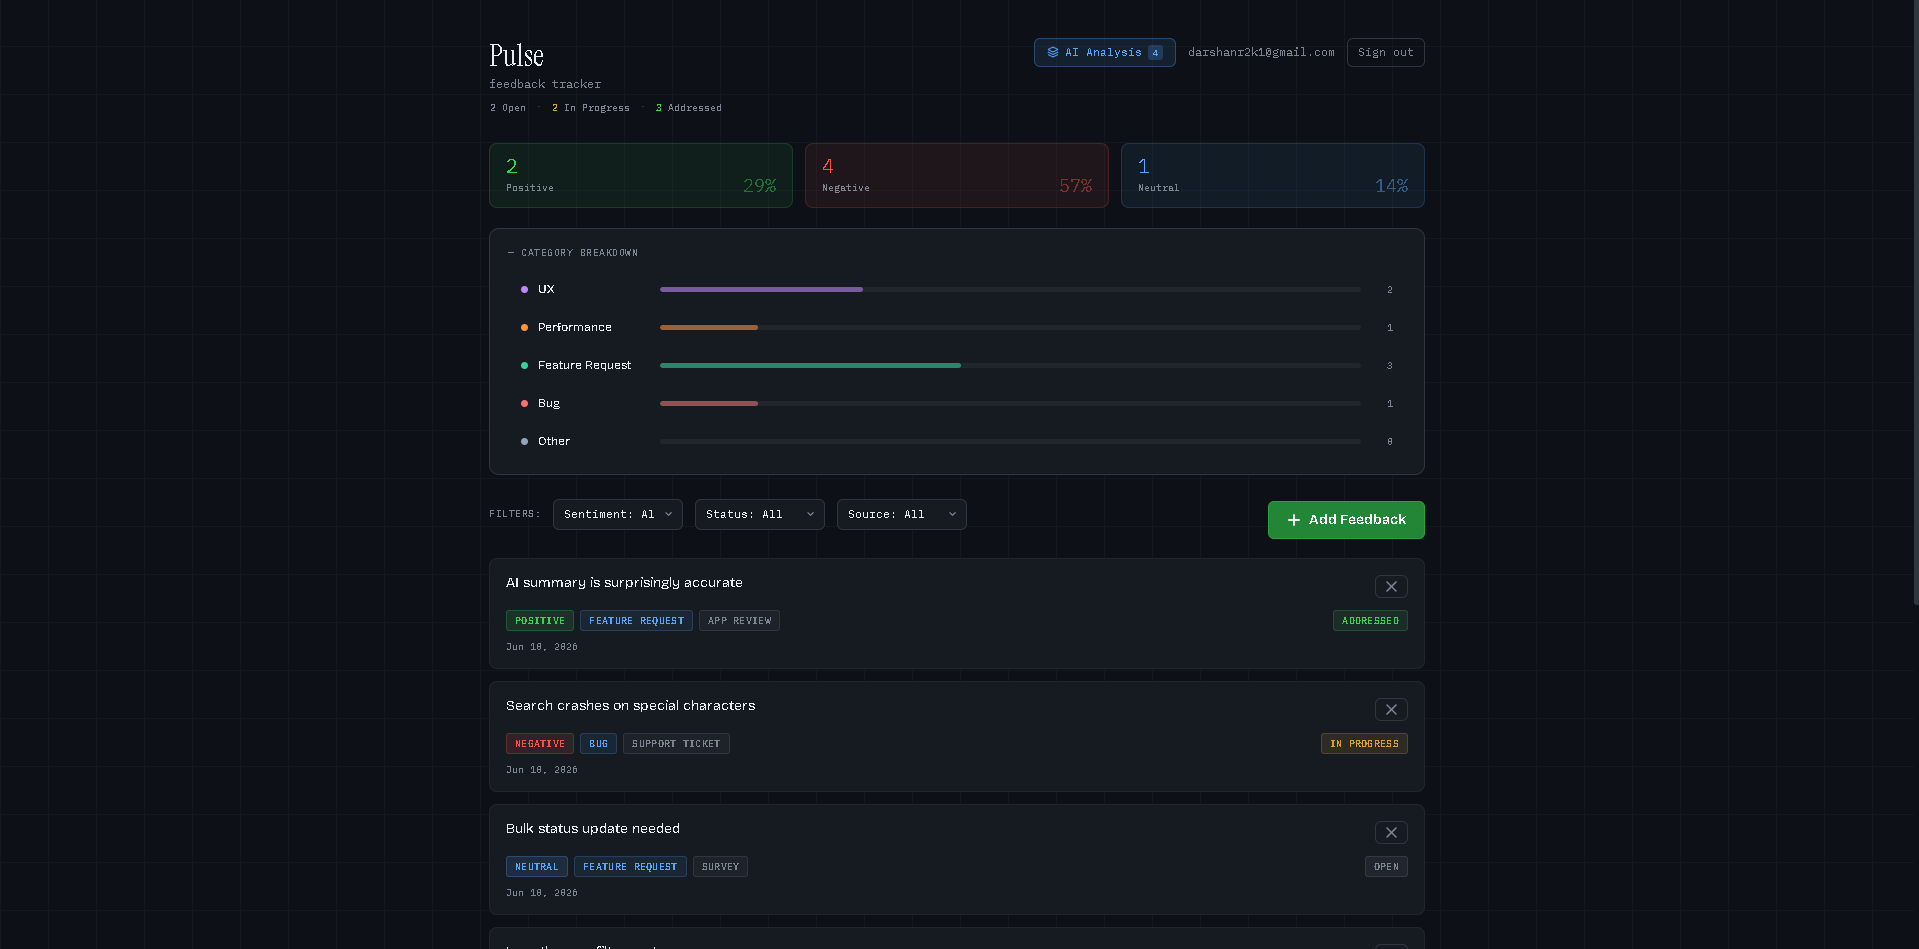
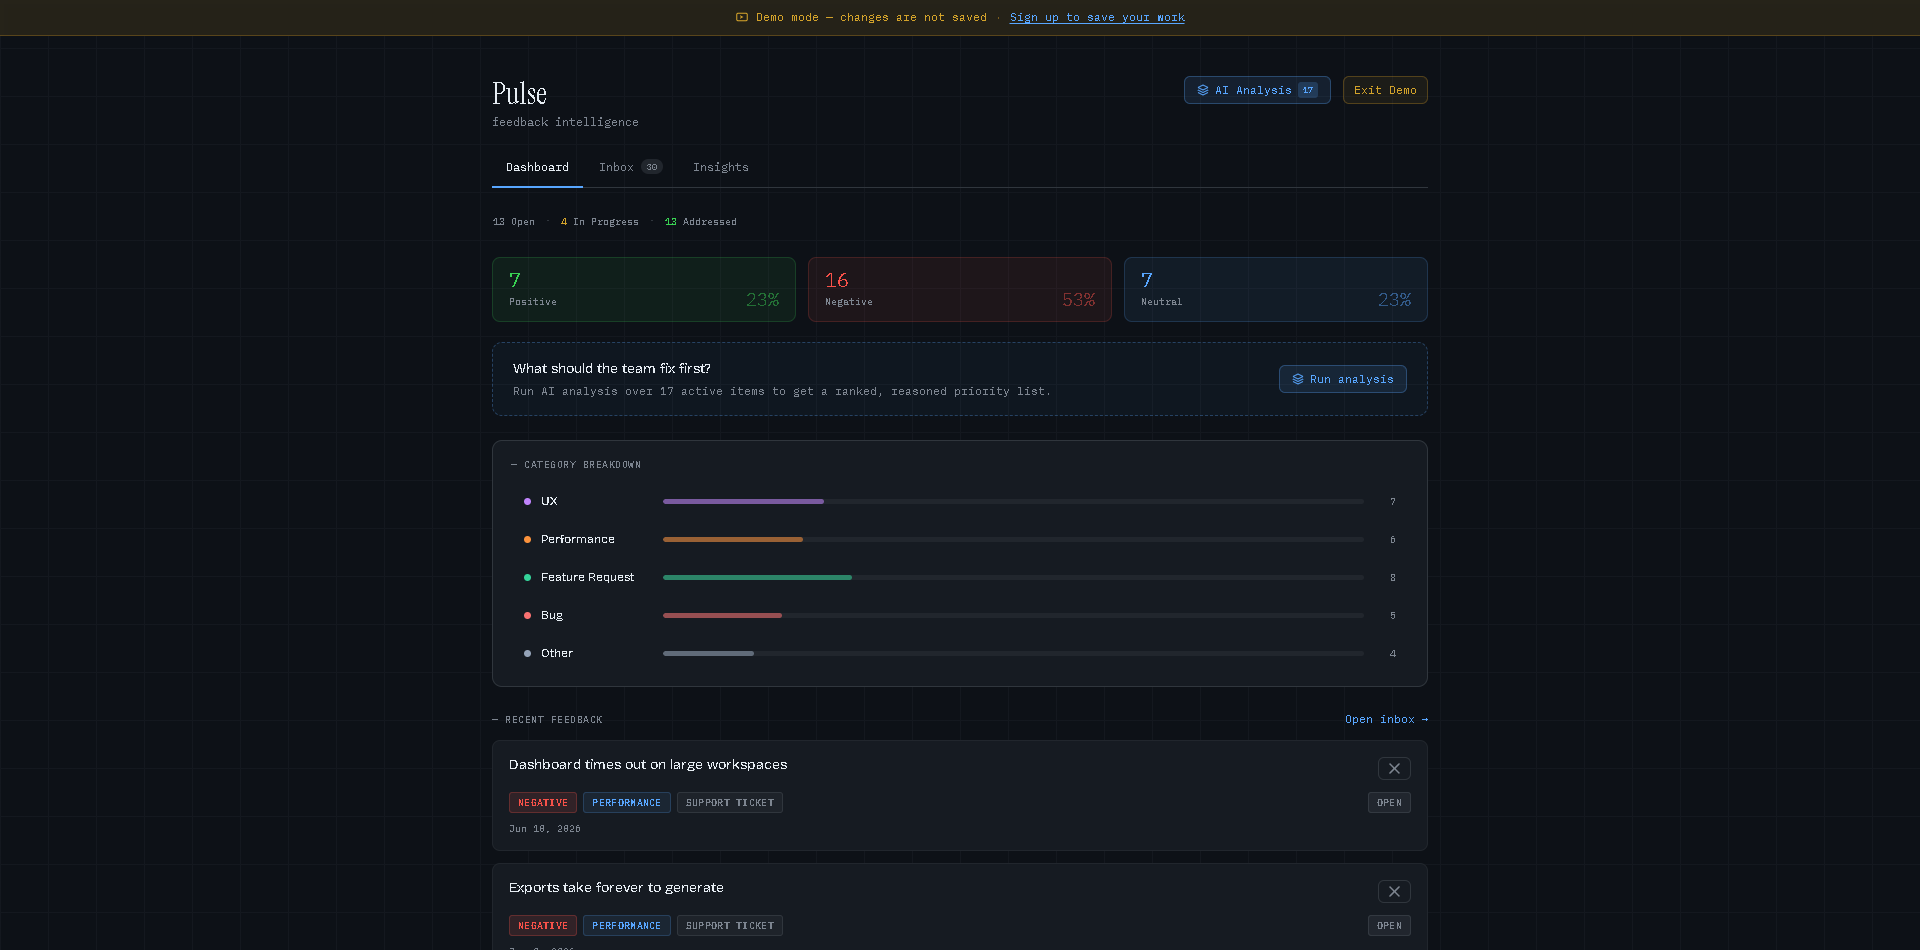
Refresh Pulse case study to match the shipped intelligence platform
Updated overview, architecture, and key decisions to reflect AI
classification at intake, evidence-linked persisted analysis, and
the Insights view. Regenerated all Pulse screenshots from the live
product and added an Insights capture to the gallery. Product links
now deep-link straight into demo mode (?demo=1) so visitors land
inside the product instead of on the auth screen. Flagship card on
the homepage now shows the ranked AI analysis.

diff --git a/pulse.html b/pulse.html
@@ -17,7 +17,7 @@
   <div class="wrap nav-inner">
     <a class="nav-back" href="index.html"><span aria-hidden="true">←</span> Back to portfolio</a>
     <nav class="nav-links" aria-label="Primary">
-      <a href="https://darsh-pm.github.io/Feedback-tracker/" target="_blank" rel="noopener" class="nav-keep">Open product ↗</a>
+      <a href="https://darsh-pm.github.io/Feedback-tracker/?demo=1" target="_blank" rel="noopener" class="nav-keep">Open product ↗</a>
       <a class="nav-keep" href="resume.pdf" target="_blank" rel="noopener">Resume</a>
       <a class="nav-cta" href="mailto:[email redacted]">Contact</a>
     </nav>
@@ -32,12 +32,13 @@
     <span class="eyebrow accent">Case study · 01</span>
     <h1>Pulse — feedback in, priorities out.</h1>
     <p class="lede">
-      A live AI-powered feedback analysis platform that collects user feedback,
-      classifies sentiment and category, and generates a ranked answer to the
-      only question that matters: what should the team fix first?
+      A live AI-powered feedback intelligence platform that collects user
+      feedback, classifies it with AI, tracks how sentiment and categories
+      trend week over week, and generates a ranked answer to the only
+      question that matters: what should the team fix first?
     </p>
     <div class="btn-row" style="margin-top:30px;">
-      <a class="btn btn-primary" href="https://darsh-pm.github.io/Feedback-tracker/" target="_blank" rel="noopener">Open live product <span class="ext">↗</span></a>
+      <a class="btn btn-primary" href="https://darsh-pm.github.io/Feedback-tracker/?demo=1" target="_blank" rel="noopener">Open live demo <span class="ext">↗</span></a>
     </div>
     <dl class="case-meta">
       <div><dt>Role</dt><dd>Product, design &amp; build</dd></div>
@@ -51,7 +52,7 @@
 <div class="wrap case-shot-full reveal in">
   <figure class="shot shot-glow">
     <div class="shot-bar" aria-hidden="true"><i></i><i></i><i></i><span class="shot-url">darsh-pm.github.io/Feedback-tracker</span></div>
-    <img src="assets/pulse-dashboard.png" alt="Pulse dashboard: sentiment totals (positive, negative, neutral), category breakdown bars, filters, and the feedback list" />
+    <img src="assets/pulse-dashboard.png" alt="Pulse dashboard: status summary, sentiment totals with percentages, AI analysis prompt, category breakdown bars, and recent feedback" />
   </figure>
 </div>
 
@@ -64,11 +65,13 @@
     </div>
     <div class="case-body">
       <p>
-        Pulse is a feedback tracker with an analysis layer on top. Feedback
-        arrives from app reviews, support tickets, and surveys; each item is
-        tagged with sentiment, category, and status. The dashboard shows the
-        live shape of the feedback — sentiment split, category breakdown,
-        open vs. addressed — and an AI analysis turns that shape into a
+        Pulse is a feedback tracker with an intelligence layer on top.
+        Feedback arrives from app reviews, support tickets, and surveys;
+        each item is classified with AI assistance — sentiment, category,
+        and a suggested title the PM confirms or overrides. The dashboard
+        shows the live shape of the feedback — sentiment split, category
+        breakdown, open vs. addressed — an Insights view tracks how that
+        shape moves week over week, and an AI analysis turns it into a
         ranked, reasoned priority list.
       </p>
       <p>
@@ -166,7 +169,12 @@
       <article>
         <span class="tag">Workflow</span>
         <h3>Status lives next to analysis</h3>
-        <p>Marking items addressed updates the picture the AI reasons over. The analysis stays a live operational view, not a one-off report that decays the moment it's generated.</p>
+        <p>Marking items addressed updates the picture the AI reasons over — and the analysis flags itself stale the moment the underlying data moves. A live operational view, not a one-off report.</p>
+      </article>
+      <article>
+        <span class="tag">Analytics</span>
+        <h3>Insights are sentences, not charts</h3>
+        <p>The Insights view pairs trend charts with a rule-based signal engine that writes the takeaway a PM would otherwise extract by hand: category momentum, sentiment shifts, ageing backlog, loudest negative channel.</p>
       </article>
       <article>
         <span class="tag">Sequencing</span>
@@ -189,19 +197,19 @@
         <div class="arch">
           <article>
             <h3>React client</h3>
-            <p>Dashboard, filters, feedback management, and the analysis panel. State kept deliberately thin; stored data owns truth.</p>
+            <p>Dashboard, triage inbox, insights view, and the analysis panel. State kept deliberately thin; stored data owns truth.</p>
           </article>
           <article>
             <h3>Groq API</h3>
-            <p>Low-latency inference for sentiment and category classification, plus the structured priority analysis over the full feedback set.</p>
+            <p>Low-latency inference for sentiment and category classification at intake, plus the structured priority analysis over the active feedback set.</p>
           </article>
           <article>
             <h3>PostgreSQL</h3>
-            <p>Feedback items, tags, statuses, and analysis results — so repeated views don't re-run inference.</p>
+            <p>Feedback items, tags, and statuses behind per-user row-level security. The latest analysis persists with a fingerprint of what it analyzed, so nothing silently re-runs inference.</p>
           </article>
           <article>
             <h3>Analytics layer</h3>
-            <p>Sentiment splits, category breakdowns, and status counts computed live to drive the dashboard.</p>
+            <p>Weekly sentiment and category trends, resolution metrics, and rule-based signals — computed live, no chart libraries, no warehouse.</p>
           </article>
         </div>
         <p class="arch-note">flow: ingest → classify → store → aggregate → analyze → rank</p>
@@ -242,6 +250,11 @@
       <h2>Screens</h2>
     </div>
     <div class="gallery">
+      <figure class="shot">
+        <div class="shot-bar" aria-hidden="true"><i></i><i></i><i></i><span class="shot-url">pulse — insights</span></div>
+        <img src="assets/pulse-insights.png" alt="Pulse Insights view: KPI row, auto-generated risk/win/watch signals, weekly sentiment trend chart, feedback volume, and category mix" />
+        <figcaption>Insights — resolution KPIs, auto-generated signals, and week-over-week sentiment, volume, and category trends.</figcaption>
+      </figure>
       <figure class="shot">
         <div class="shot-bar" aria-hidden="true"><i></i><i></i><i></i><span class="shot-url">pulse — feedback detail</span></div>
         <img src="assets/pulse-detail.png" alt="Feedback detail view with sentiment and category tags, description, and a status switcher" />

diff --git a/index.html b/index.html
@@ -270,11 +270,11 @@
 <div class="wrap shelf reveal">
   <figure class="shot shot-glow">
     <div class="shot-bar" aria-hidden="true"><i></i><i></i><i></i><span class="shot-url">darsh-pm.github.io/Feedback-tracker</span></div>
-    <img src="assets/pulse-dashboard.png" alt="Pulse dashboard showing sentiment totals, category breakdown, and a filterable feedback list" />
+    <img src="assets/pulse-dashboard.png" alt="Pulse dashboard showing status summary, sentiment totals, AI analysis prompt, category breakdown, and recent feedback" />
   </figure>
   <p class="shelf-caption">
-    <span>Pulse — AI feedback analysis. Live and open to try.</span>
-    <a href="https://darsh-pm.github.io/Feedback-tracker/" target="_blank" rel="noopener">Open product <span class="ext">↗</span></a>
+    <span>Pulse — AI feedback intelligence. Live and open to try.</span>
+    <a href="https://darsh-pm.github.io/Feedback-tracker/?demo=1" target="_blank" rel="noopener">Open product <span class="ext">↗</span></a>
   </p>
 </div>
 
@@ -298,21 +298,22 @@
         <p class="product-desc">
           A feedback intelligence platform that turns raw user feedback into
           ranked priorities. Pulse collects feedback across sources, classifies
-          sentiment and category, surfaces top pain points, and generates an AI
-          analysis that tells a product team what to fix first — and what can wait.
+          it with AI, tracks sentiment and category trends week over week, and
+          generates a ranked AI analysis — with evidence attached — that tells
+          a product team what to fix first and what can wait.
         </p>
         <ul class="product-tech">
-          <li>React</li><li>PostgreSQL</li><li>Groq API</li><li>Sentiment analysis</li><li>Feedback analytics</li>
+          <li>React</li><li>PostgreSQL</li><li>Groq API</li><li>Sentiment analysis</li><li>Trend analytics</li>
         </ul>
         <div class="product-actions">
           <a class="product-cta" href="pulse.html">Read case study <span class="arrow">→</span></a>
-          <a class="product-link" href="https://darsh-pm.github.io/Feedback-tracker/" target="_blank" rel="noopener">Open product <span class="ext">↗</span></a>
+          <a class="product-link" href="https://darsh-pm.github.io/Feedback-tracker/?demo=1" target="_blank" rel="noopener">Open product <span class="ext">↗</span></a>
         </div>
       </div>
       <div class="product-shot">
         <figure class="shot">
-          <div class="shot-bar" aria-hidden="true"><i></i><i></i><i></i><span class="shot-url">pulse — feedback detail</span></div>
-          <img src="assets/pulse-detail.png" alt="Pulse feedback detail view with sentiment and category tags, description, and status controls" />
+          <div class="shot-bar" aria-hidden="true"><i></i><i></i><i></i><span class="shot-url">pulse — AI analysis</span></div>
+          <img src="assets/pulse-analysis.png" alt="Pulse AI analysis: ranked prioritize-first items with written rationale and links to source feedback, plus a can-wait group" />
         </figure>
       </div>
     </article>